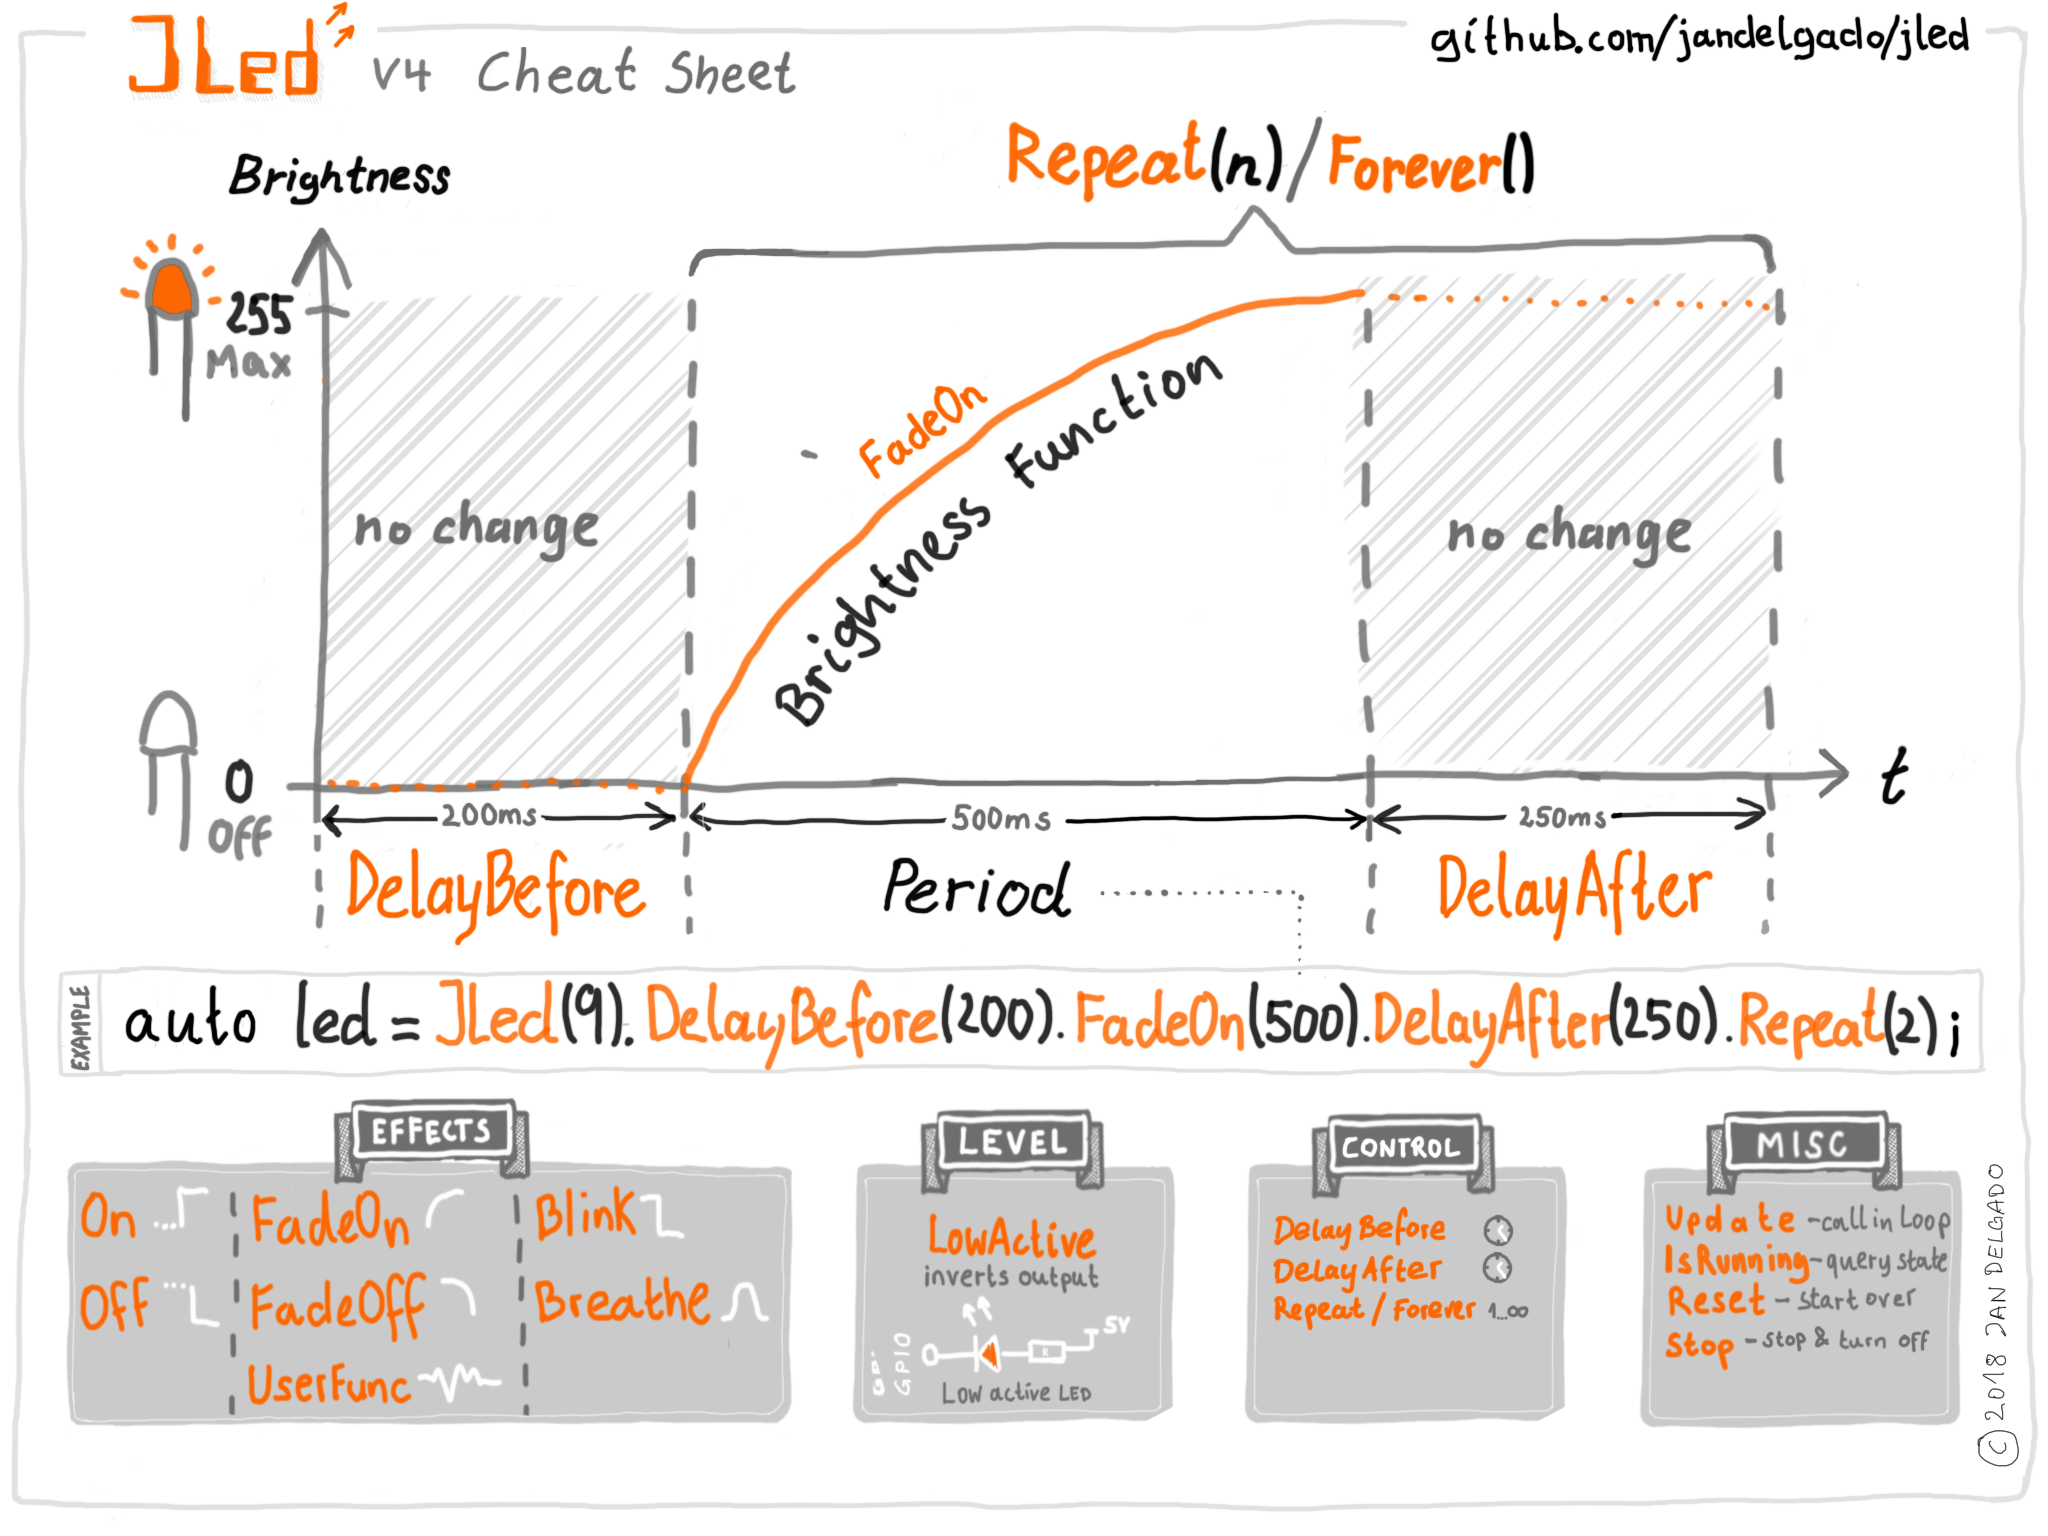
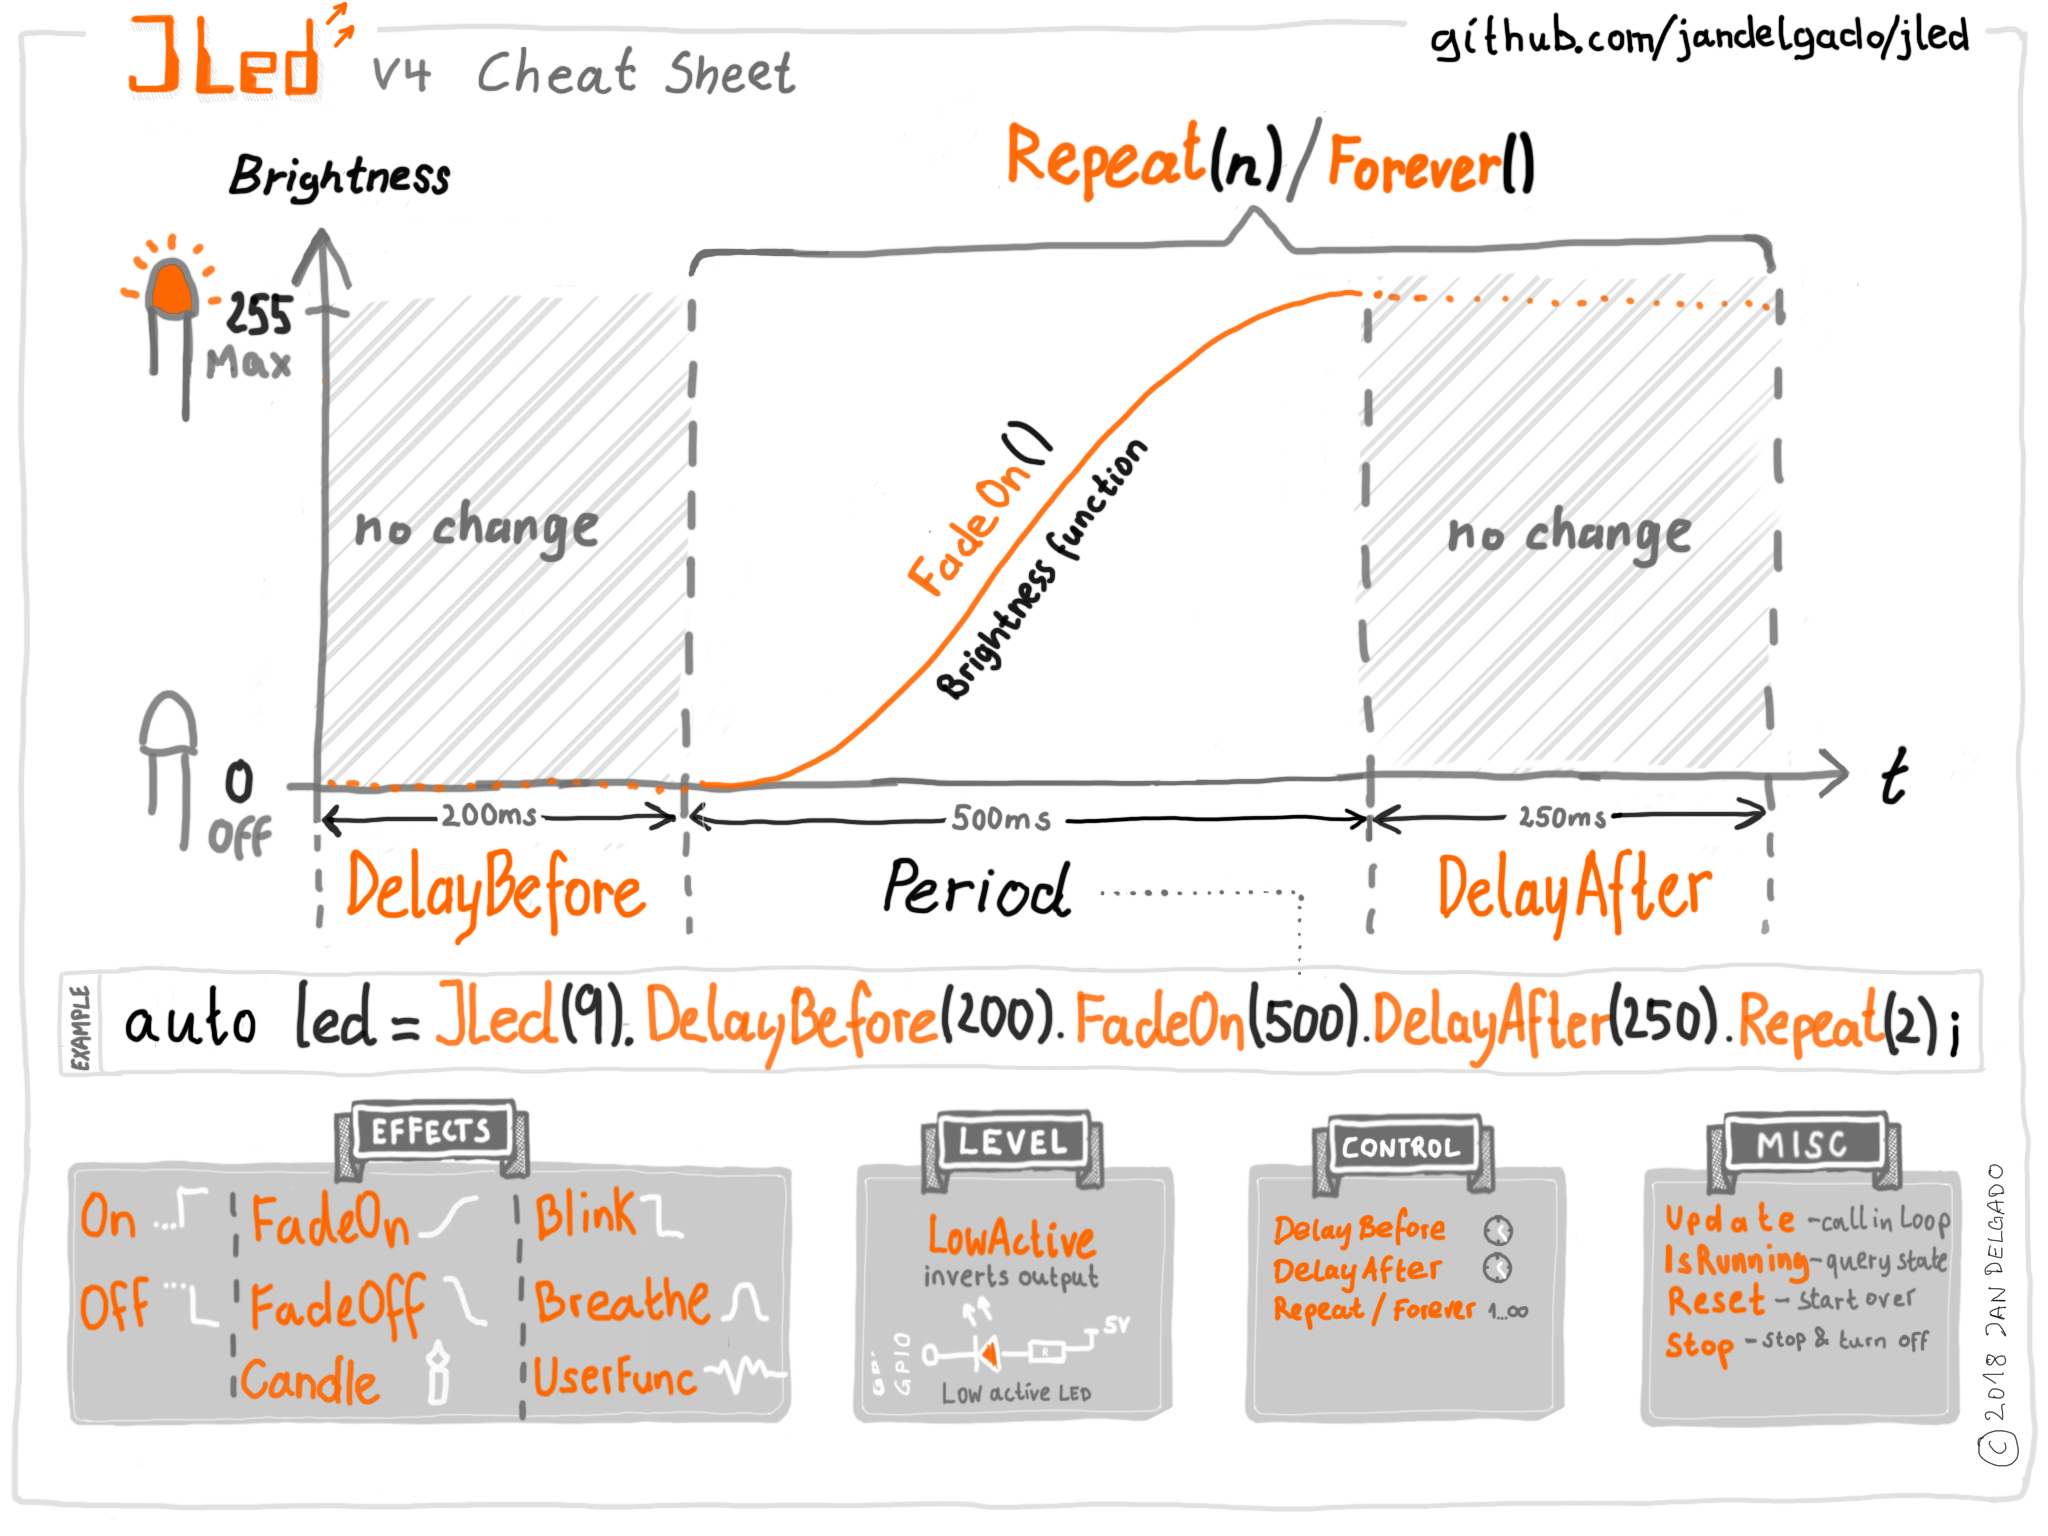
add new candle/fire effect update documentation

diff --git a/src/jled_base.h b/src/jled_base.h
@@ -46,6 +46,8 @@ static constexpr uint8_t kFullBrightness = 255;
 static constexpr uint8_t kZeroBrightness = 0;
 
 uint8_t fadeon_func(uint32_t t, uint16_t period);
+uint8_t rand8();
+void rand_seed(uint32_t s);
 
 // a function f(t,period,param) that calculates the LEDs brightness for a given
 // point in time and the given period. param is an optionally user provided
@@ -133,7 +135,6 @@ class FadeOffBrightnessEvaluator : public CloneableBrightnessEvaluator {
 // But we do it with integers only.
 class BreatheBrightnessEvaluator : public CloneableBrightnessEvaluator {
     uint16_t period_;
-
  public:
     BreatheBrightnessEvaluator() = delete;
     explicit BreatheBrightnessEvaluator(uint16_t period) : period_(period) {}
@@ -149,8 +150,44 @@ class BreatheBrightnessEvaluator : public CloneableBrightnessEvaluator {
     }
 };
 
+class CandleBrightnessEvaluator : public CloneableBrightnessEvaluator {
+    uint8_t speed_;
+    uint8_t jitter_;
+    uint16_t period_;
+    mutable uint8_t last_ = 5;
+    mutable uint32_t last_t_ = 0;
+
+ public:
+    CandleBrightnessEvaluator() = delete;
+
+    // speed - speed of effect (0..15). 0 fastest. Each increment by 1
+    //         halfes the speed.
+    // jitter - amount of jittering to apply. 0 - no jitter, 15 - candle,
+    //                                        64 - fire, 255 - storm
+    CandleBrightnessEvaluator(uint8_t speed, uint8_t jitter, uint16_t period)
+        : speed_(speed), jitter_(jitter), period_(period) {}
+
+    BrightnessEvaluator* clone(void* ptr) const override {
+        return new (ptr) CandleBrightnessEvaluator(*this);
+    }
+
+    uint16_t Period() const override { return period_; }
+    uint8_t Eval(uint32_t t) const override {
+        // idea from
+        // https://cpldcpu.wordpress.com/2013/12/08/hacking-a-candleflicker-led/
+        // TODO(jd) finetune values
+        static constexpr uint8_t kCandleTable[] = {
+            5, 10, 20, 30, 50, 20, 30, 40, 50, 60, 70, 80, 90, 100, 110, 255};
+        if ((t >> speed_) == last_t_) return last_;
+        last_t_ = (t >> speed_);
+        const auto rnd = rand8() & 255;
+        last_ = (rnd >= jitter_) ? 255 : (50 + kCandleTable[rnd & 0xf]);
+        return last_;
+    }
+};
+
 // set MAX_SIZE to class occupying most memory
-constexpr auto MAX_SIZE = sizeof(BlinkBrightnessEvaluator);
+constexpr auto MAX_SIZE = sizeof(CandleBrightnessEvaluator);
 
 template <typename HalType, typename B>
 class TJLed {
@@ -266,6 +303,14 @@ class TJLed {
     B& Blink(uint16_t duration_on, uint16_t duration_off) {
         brightness_eval_ = new (brightness_eval_buf_)
             BlinkBrightnessEvaluator(duration_on, duration_off);
+        return static_cast<B&>(*this);
+    }
+
+    // Set effect to Candle light simulation
+    B& Candle(uint8_t speed = 6, uint8_t jitter = 15,
+              uint16_t period = 0xffff) {
+        brightness_eval_ = new (brightness_eval_buf_)
+            CandleBrightnessEvaluator(speed, jitter, period);
         return static_cast<B&>(*this);
     }
 

diff --git a/test/test_jled.cpp b/test/test_jled.cpp
@@ -8,6 +8,7 @@
 using jled::BlinkBrightnessEvaluator;
 using jled::BreatheBrightnessEvaluator;
 using jled::BrightnessEvaluator;
+using jled::CandleBrightnessEvaluator;
 using jled::ConstantBrightnessEvaluator;
 using jled::FadeOffBrightnessEvaluator;
 using jled::FadeOnBrightnessEvaluator;
@@ -82,6 +83,20 @@ TEST_CASE("Breathe() function configuration", "[jled]") {
     TestableJLed::test();
 }
 
+TEST_CASE("Candle() function configuration", "[jled]") {
+    class TestableJLed : public TestJLed {
+     public:
+        using TestJLed::TestJLed;
+        static void test() {
+            TestableJLed jled(1);
+            jled.Candle(1, 2, 3);
+            REQUIRE(dynamic_cast<CandleBrightnessEvaluator *>(
+                        jled.brightness_eval_) != nullptr);
+        }
+    };
+    TestableJLed::test();
+}
+
 TEST_CASE("FadeOn()/FadeOff() function configuration", "[jled]") {
     class TestableJLed : public TestJLed {
      public:
@@ -109,9 +124,6 @@ TEST_CASE("UserFunc() provided brightness evaluator configuration", "[jled]") {
      public:
         uint16_t Period() const { return 0; }
         uint8_t Eval(uint32_t) const { return 0; }
-        BrightnessEvaluator *clone(void *p) const {
-            return new (p) CustomBrightnessEvaluator(*this);
-        }
     };
 
     class TestableJLed : public TestJLed {
@@ -147,6 +159,14 @@ TEST_CASE("BlinkBrightnessEvaluator calculates correct values", "[jled]") {
     REQUIRE(255 == eval.Eval(9));
     REQUIRE(0 == eval.Eval(10));
     REQUIRE(0 == eval.Eval(14));
+}
+
+TEST_CASE("CandleBrightnessEvaluator calculates correct values", "[jled]") {
+    auto eval = CandleBrightnessEvaluator(7, 15, 1000);
+    REQUIRE(1000 == eval.Period());
+    // TODO(jd) do further and better tests
+    REQUIRE(eval.Eval(0) > 0);
+    REQUIRE(eval.Eval(999) > 0);
 }
 
 TEST_CASE("FadeOnOffEvaluator calculates correct values", "[jled]") {
@@ -347,4 +367,10 @@ TEST_CASE("After Reset() the effect can be restarted", "[jled]") {
         jled.Hal().SetMillis(++time);
     }
     REQUIRE(!jled.Update());
+}
+
+TEST_CASE("random generator delivers PRN's as expected", "[jled]") {
+    jled::rand_seed(0);
+    REQUIRE(0x59 == jled::rand8());
+    REQUIRE(0x159>>1 == jled::rand8());
 }

diff --git a/src/jled_base.cpp b/src/jled_base.cpp
@@ -21,7 +21,6 @@
 //
 #include "jled_base.h"  // NOLINT
 
-
 namespace jled {
 
 // pre-calculated fade-on function. This table samples the function
@@ -32,8 +31,6 @@ namespace jled {
 // approximate the original function (so we do not need fp-ops).
 // fade-off and breath functions are all derived from fade-on, see
 // below.
-// (To save some additional bytes, we could place it in PROGMEM
-// sometime)
 static constexpr uint8_t kFadeOnTable[] = {0,   3,   13,  33, 68,
                                            118, 179, 232, 255};
 
@@ -55,8 +52,18 @@ uint8_t fadeon_func(uint32_t t, uint16_t period) {
     return (((t - x0) * (y1 - y0)) >> 5) + y0;
 }
 
-// void* BrightnessEvaluator::operator new(size_t, void *ptr) {
-//     return ptr;
-// }
+static uint32_t rand_ = 0;
+
+void rand_seed(uint32_t seed) { rand_ = seed; }
+
+uint8_t rand8() {
+    if (rand_ & 1) {
+        rand_ = (rand_ >> 1);
+    } else {
+        rand_ = (rand_ >> 1) ^ 0x7FFFF159;
+    }
+
+    return (uint8_t)rand_;
+}
 
 };  // namespace jled

diff --git a/README.md b/README.md
@@ -45,6 +45,8 @@ void loop() {
             * [Blinking example](#blinking-example)
         * [Breathing](#breathing)
             * [Breathing example](#breathing-example)
+        * [Candle](#candle)
+            * [Candle example](#candle-example)
         * [FadeOn](#fadeon)
             * [FadeOn example](#fadeon-example)
         * [FadeOff](#fadeoff)
@@ -127,10 +129,9 @@ function. While the effect is active, `Update` returns `true`, otherwise
 `false`.
 
 The constructor takes the pin, to which the LED is connected to as
-only parameter. Further configuration of the LED object is done using a fluent
+only argument. Further configuration of the LED object is done using a fluent
 interface, e.g. `JLed led = JLed(13).Breathe(2000).DelayAfter(1000).Repeat(5)`.
-See examples and [Parameter overview](#parameter-oveview) section below for
-further details.
+See examples section below for further details.
 
 ### Effects
 
@@ -163,14 +164,15 @@ brightness to 0.
 #### Blinking
 
 In blinking mode, the LED cycles through a given number of on-off cycles, on-
-and off-cycle duration are specified independently.
+and off-cycle duration are specified independently. The `Blink()` method takes
+the duration for the on- and off cycle as arguments.
 
 ##### Blinking example
 
 ```c++
 #include <jled.h>
 
-// blink internal LED every second.
+// blink internal LED every second; 1 second on, 0.5 second off.
 auto led = JLed(LED_BUILTIN).Blink(1000, 500).Forever();
 
 void setup() { }
@@ -182,7 +184,8 @@ void loop() {
 
 #### Breathing
 
-In breathing mode, the LED smoothly changes brightness using PWM.
+In breathing mode, the LED smoothly changes brightness using PWM. The
+`Breathe()` method takes the period of the effect as argument.
 
 ##### Breathing example
 
@@ -200,9 +203,46 @@ void loop() {
 }
 ```
 
+#### Candle
+
+In candle mode the random flickering of a candle or fire is simulated. 
+The builder method has the following signature:
+  `Candle(uint8_t speed, uint8_t jitter, uin16_t period)`
+
+* `speed` - controls the speed of the effect. 0 for fastest, increasing speed 
+  divides into halve per increment. Default value is 7.
+* `jitter` - amount of jittering. 0 none (constant on), 255 maximum. Default
+  value is 15.
+* `period` - Period of effect in ms.  Default is 65535 ms.
+
+The default settings simulate a candle. For a fire effect for example use
+call the method with `Candle(5 /*speed*/, 100 /* jitter*/)`. 
+
+##### Candle example
+
+```c++
+#include <jled.h>
+
+// Candle on LED pin 13 (PWM capable). 
+auto led = JLed(13).Candle();
+
+void setup() { }
+
+void loop() {
+  led.Update();
+}
+```
+
 #### FadeOn
 
-In FadeOn mode, the LED is smoothly faded on to 100% brightness using PWM.
+In FadeOn mode, the LED is smoothly faded on to 100% brightness using PWM. The
+`FadeOn()` method takes the period of the effect as argument.
+
+The brightness function uses an approximation of this function (example with
+period 1000):
+
+[![fadeon function](doc/fadeon_plot.png)](https://www.wolframalpha.com/input/?i=plot+(exp(sin((t-1000%2F2.)*PI%2F1000))-0.36787944)*108.0++t%3D0+to+1000)
+
 
 ##### FadeOn example
 
@@ -221,9 +261,10 @@ void loop() {
 
 #### FadeOff
 
-In FadeOff mode, the LED is smoothly faded off using PWM. The fade starts
-at 100% brightness. Internally it is implemented as a mirrored version of
-the FadeOn function, i.e. FadeOn(t) = FadeOff(period-t)
+In FadeOff mode, the LED is smoothly faded off using PWM. The fade starts at
+100% brightness. Internally it is implemented as a mirrored version of the
+FadeOn function, i.e. FadeOn(t) = FadeOff(period-t).  The `FadeOff()` method
+takes the period of the effect as argument.
 
 #### User provided brightness function
 

diff --git a/CHANGELOG.md b/CHANGELOG.md
@@ -1,5 +1,23 @@
 # JLed changelog
 
+## [2019-03-10] v4.0.0
+
+In addition to the changes introduced with `v4.0.0-rc0` and `v4.0.0-rc1`, the
+`v4.0.0` relases adds/changes the following:
+
+### Added
+
+* new `Candle()` effect added for candles and fire like effects
+
+### Changed
+
+* The user provided brightness class no longer needs a `Clone()` method. See
+  [example](examples/user_func/user_func.ino) for an example
+
+### Fixed
+
+* Makefile (unit testing) dependency checking fixed
+
 ## [2019-02-17] v4.0.0-rc1
 
 ### Changed
@@ -33,7 +51,8 @@
 
 In JLed version prio to version 4.0.0, a function pointer was used to specify
 a user provided brightness function.
-```
+
+```c++
 // this function returns changes between 0 and 255 and vice versa every 250 ms.
 uint8_t blinkFunc(uint32_t t, uint16_t, uintptr_t) {
   return 255*((t/250)%2);
@@ -47,9 +66,9 @@ JLed led = JLed(LED_BUILTIN).UserFunc(blinkFunc, 5000);
 
 The user function is replaced by a class, which provides more flexibility:
 
-```
+```c++
 class UserEffect : public jled::BrightnessEvaluator {
-    uint8_t Eval(uint32_t t) {
+    uint8_t Eval(uint32_t t) const {
         // this function returns changes between 0 and 255 and
         // vice versa every 250 ms.
         return 255*((t/250)%2);
@@ -59,7 +78,6 @@ class UserEffect : public jled::BrightnessEvaluator {
 
 UserEffect userEffect;
 JLed led = JLed(LED_BUILTIN).UserFunc(&userEffect);
-
 ```
 
 ### Removed

diff --git a/examples/morse/README.md b/examples/morse/README.md
@@ -1,8 +1,17 @@
 # JLed morse example
 
+This examples demonstrates an efficient method to generate morse code on 
+an micro controller like the Arduino.
+
 The morse example uses the morse alphabet encoded in a binary tree to 
 generate morse code using a JLed user defined brightness class. The text
 to be morsed is transformed into morse code and then transformed into a 
-sequence of `1` and `0` which are written out to a GPIO controlling a LED.
+sequence of `1` and `0` which are written out to a GPIO controlling a LED or
+a sound generator. 
 
 ![morse example](../../doc/morse.png)
+
+## Author 
+
+Jan Delgado
+
